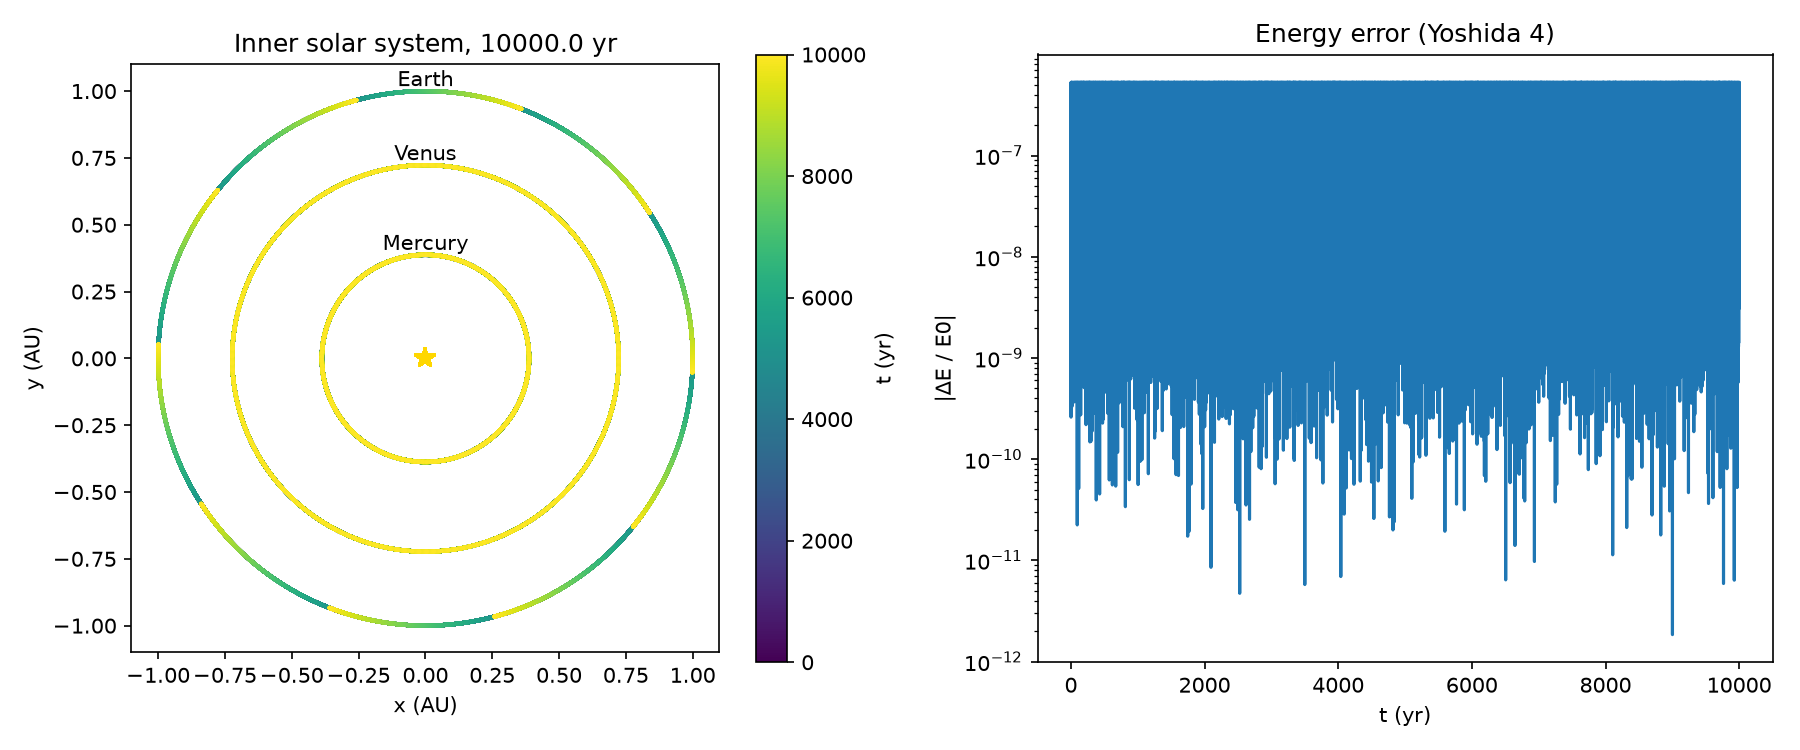
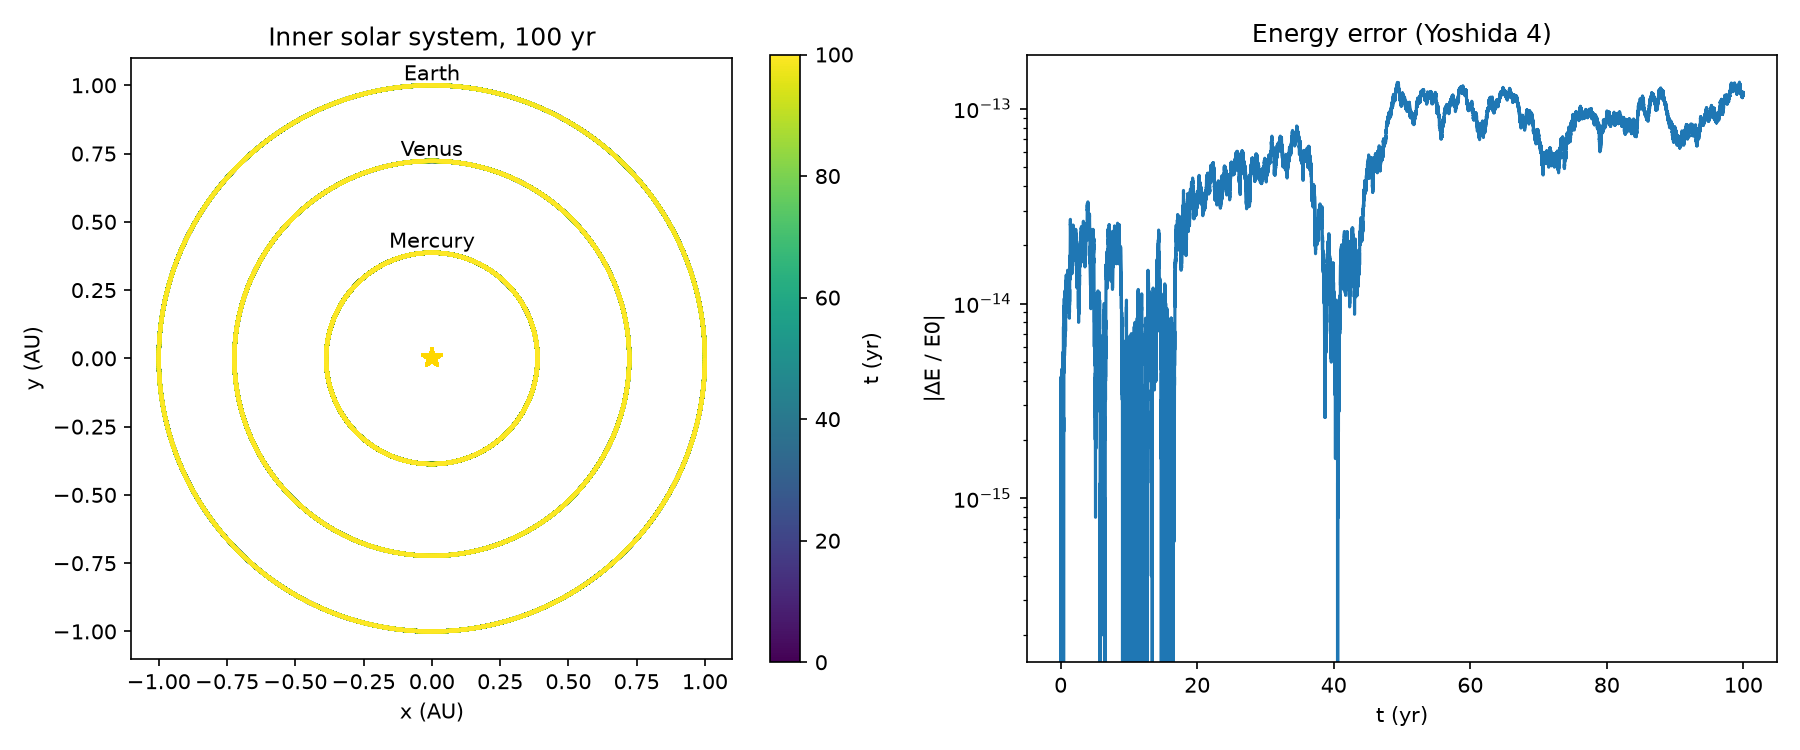
Added initial conditions py which imports jpl horizon coordinates, adjusted Implementation to run 9 body with jpl

diff --git a/Initial_Conditions.py b/Initial_Conditions.py
@@ -1,0 +1,14 @@
+# fetch_ic.py — run once
+import numpy as np
+from astroquery.jplhorizons import Horizons
+
+names = ["Sun", "Mercury", "Venus", "Earth", "Mars", "Jupiter", "Saturn", "Uranus", "Neptune"]
+ids   = ["10",  "199",     "299",   "3",     "4",    "5",       "6",      "7",      "8"]
+epoch = 2461000.5   # Julian date of the starting snapshot (Sep 2025)
+
+r, v = [], []
+for body in ids:
+    vec = Horizons(id=body, location="@0", epochs=epoch).vectors(refplane="ecliptic")
+    r.append([vec["x"][0],  vec["y"][0],  vec["z"][0]])            # AU
+    v.append([vec["vx"][0], vec["vy"][0], vec["vz"][0]])           # AU/day
+np.savez("initial_conditions.npz", names=names, r=np.array(r), v=np.array(v) * 365.25)  # convert to AU/yr

diff --git a/Implementation.py b/Implementation.py
@@ -75,8 +75,8 @@ velocities[0] = -np.sum(np.array(masses)[1:, None] * velocities[1:], axis=0) / m
 
 sys_4 = nbs(masses=masses, positions=positions, velocities=velocities)
 
-dt    = .01  # yr (about 240 steps per Mercury orbit)
-years = 1e3
+dt    = .0001  # yr (about 240 steps per Mercury orbit)
+years = 100
 out = sys_4.run(dt, int(years / dt), method=nbs.step_yoshida4, record_every=10)
 
 # ---- Checks ----
